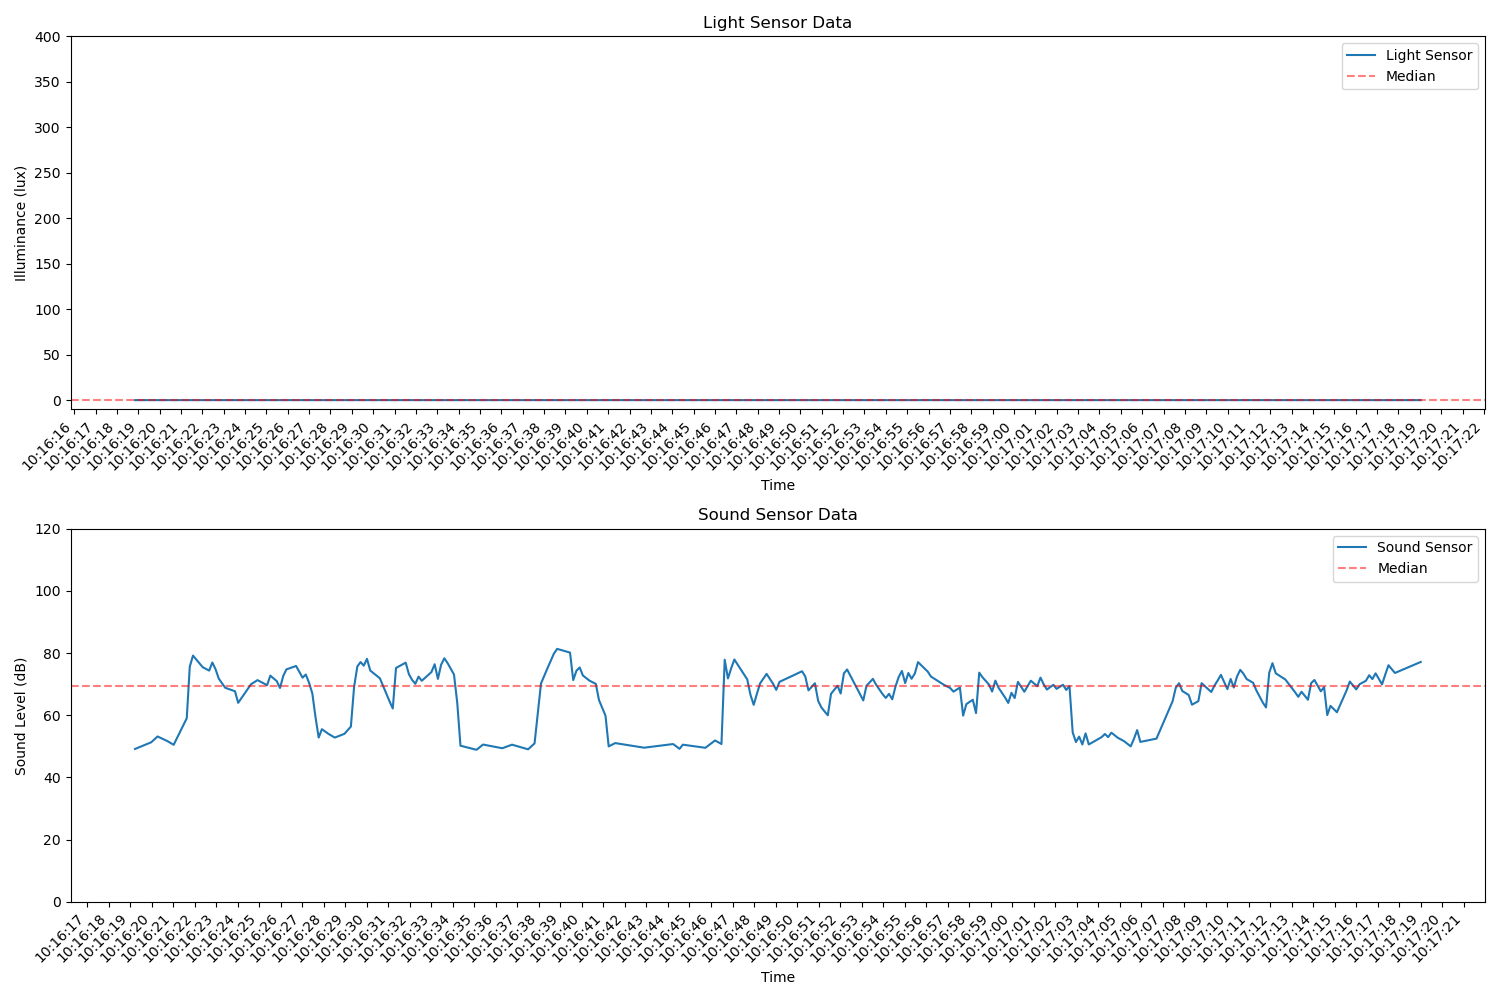
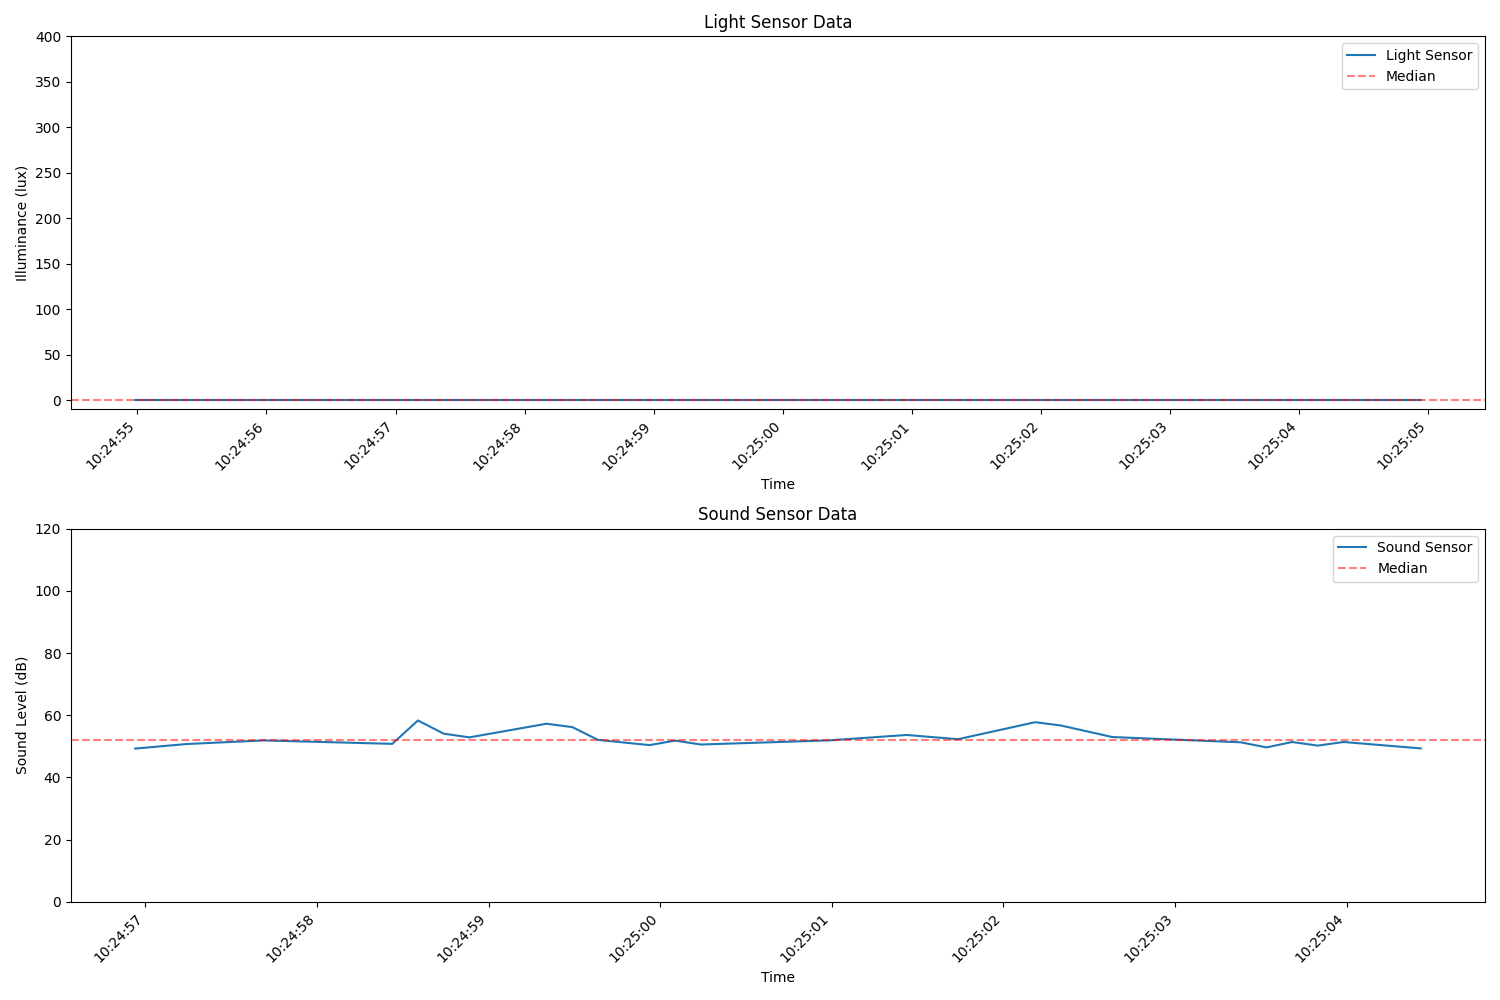
Modify default test duration as 10s

diff --git a/PhidgetSensor/iSensor.py b/PhidgetSensor/iSensor.py
@@ -176,26 +176,6 @@ class VintHubController:
         except PhidgetException as e:
             logging.error("Failed to set SPL Change Trigger: {}".format(e.details))
 
-    # def capture_sensor_data(self, duration):
-    #     """
-    #     Run the test for a specified duration.
-
-    #     :param duration: The duration of the test in seconds.
-    #     """
-    #     # Assign event handlers
-    #     self.light_sensor.setOnIlluminanceChangeHandler(self.onIlluminanceChange)
-    #     self.sound_sensor.setOnSPLChangeHandler(self.onSPLChange)
-        
-    #     start_time = time.time()
-    #     while not self.stop and time.time() - start_time < duration:
-    #         # Record timestamps periodically
-    #         timestamp = datetime.datetime.now()
-    #         self.timestamps['video'].append(timestamp)
-    #         self.timestamps['audio'].append(timestamp)
-    #         time.sleep(1)   # Sleep for 1 second to ensure uniform sampling
-    #     self.stop = True    # Ensure the loop exits
-    #     self.close()        # Close sensors to ensure proper exit
-
     def capture_sensor_data(self, duration):
         """
         Run the test for a specified duration.
@@ -297,10 +277,10 @@ if __name__ == "__main__":
     
     # Usage
     try:
-        vinthub = VintHubController(light_sensor_port=1, sound_sensor_port=2, hub_serial_number=751480, verbose=False)
+        vinthub = VintHubController(light_sensor_port=1, sound_sensor_port=2, hub_serial_number=751480, verbose=True)
         # controller = VintHubController(light_sensor_port=1, hub_serial_number=751480, verbose=True)
         # controller = VintHubController(sound_sensor_port=2, hub_serial_number=751480, verbose=True)
-        vinthub.capture_sensor_data(duration=60)                    # Set test duration as xx seconds
+        vinthub.capture_sensor_data(duration=10)                    # Set test duration as xx seconds
         vinthub.visualize_data(save_picture='sensor_data.png')       # Save the data image as xx.png 
     except PhidgetException as ex:
         traceback.print_exc()
